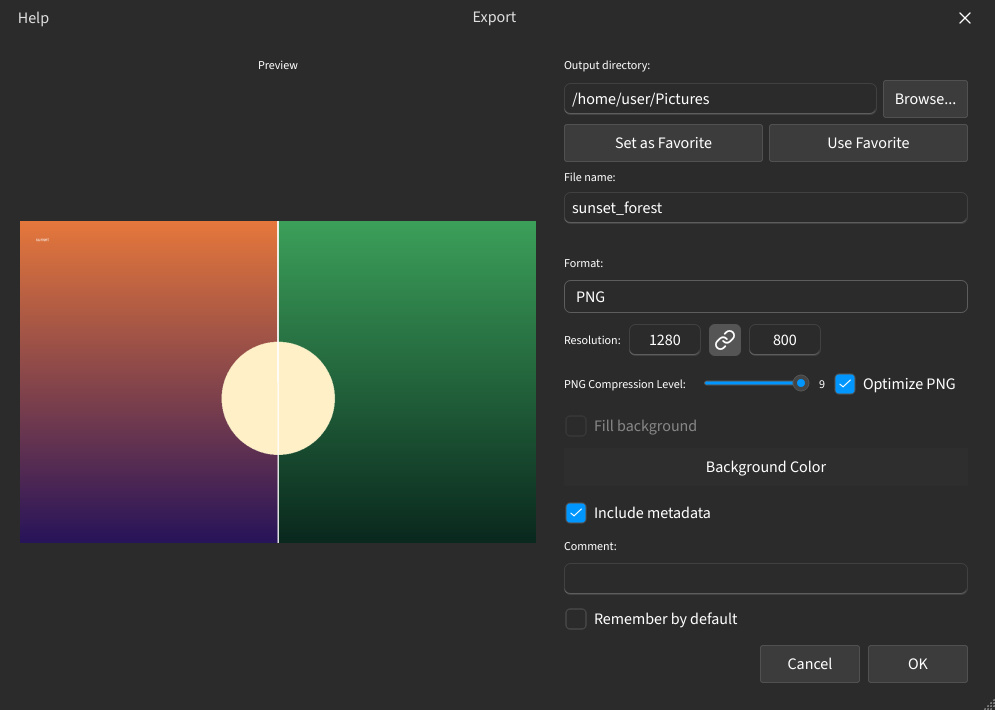
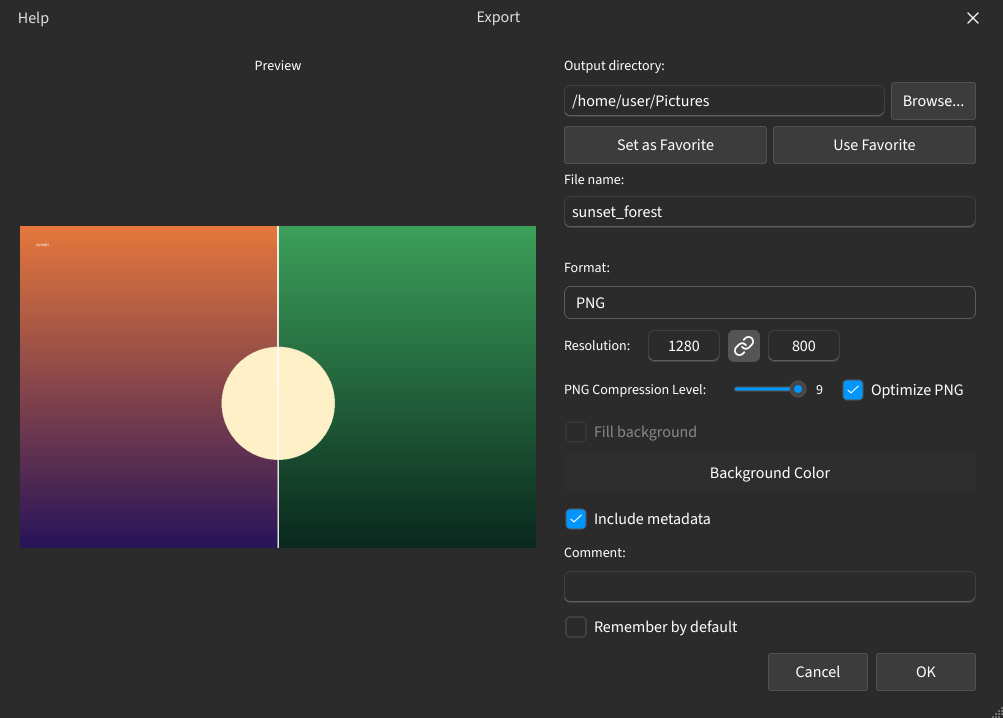
fix(ui): export dialog field labels use the app label scale (#612)
Multi Compare export: gap-aware canvas + label master switch; export-dialog label scale

#612: export-dialog field labels use the app-registered group-title scale (14 px) instead of toolkit body (12 px); live export_dialog.jpg figure regenerated for 8 locale/theme cells. Local: contracts+plugins 3059 passed, 66 skipped.
#613: native export canvas includes split gaps (2564x800 instead of 2560x800 -> no 1px white rim; verified live), and MultiCompareLabelSettings.visible with a Show text switch in the text flyout (live+export share one plan; Find Action row label.show_text). Local: tests/contracts tests/plugins tests/render src/tabs/multi_compare/tests -> 3741 passed, 70 skipped, 1 pre-existing failure (test_mc_chrome_survival, reproduced at base a1a2b3cc1).

diff --git a/src/plugins/export/dialog_sections.py b/src/plugins/export/dialog_sections.py
@@ -32,6 +32,13 @@ from ui.icon_manager import AppIcon
 from ui.widgets.form_controls import DialogActionBar, OutputPathSection
 from ui.widgets.slider_hint import ValueSlider
 
+#: Row-label typography for the export dialog. The app registers
+#: ``group-title`` as 14 design px / regular (ui/icon_manager.py) — the same
+#: scale the video editor's export labels use. The toolkit ``body`` default
+#: (12 px) painted these labels visibly smaller than the value text, checkbox
+#: captions and buttons in the same dialog.
+_LABEL_VARIANT = "group-title"
+
 
 class _ExportPreviewLabel(QLabel):
     """Preview surface whose sizeHint ignores the pixmap.
@@ -60,7 +67,9 @@ def build_preview_pane(dialog) -> QFrame:
     left_layout.setSpacing(scaled_px(8))
 
     dialog.export_preview_title = Text(
-        dialog._tr("export.preview", "Preview"), mode="plain"
+        dialog._tr("export.preview", "Preview"),
+        mode="plain",
+        variant=_LABEL_VARIANT,
     )
     dialog.export_preview_title.setAlignment(Qt.AlignmentFlag.AlignCenter)
     dialog.preview_label = _ExportPreviewLabel()
@@ -108,7 +117,9 @@ def build_output_path_section(dialog) -> None:
 
 def build_format_row(dialog) -> None:
     dialog.fmt_label = Text(
-        dialog._tr("label.format", "Format") + ":", mode="plain"
+        dialog._tr("label.format", "Format") + ":",
+        mode="plain",
+        variant=_LABEL_VARIANT,
     )
     dialog.combo_format = ComboBox()
     for fmt in ["PNG", "JPEG", "WEBP", "BMP", "TIFF", "JXL"]:
@@ -128,7 +139,9 @@ def build_resolution_row(dialog) -> None:
     res_layout.setContentsMargins(0, 0, 0, 0)
     res_layout.setSpacing(scaled_px(8))
     dialog.resolution_label = Text(
-        dialog._tr("label.resolution", "Resolution") + ":", mode="plain"
+        dialog._tr("label.resolution", "Resolution") + ":",
+        mode="plain",
+        variant=_LABEL_VARIANT,
     )
     res_layout.addWidget(dialog.resolution_label)
     dialog.edit_width = CustomLineEdit()
@@ -172,7 +185,9 @@ def build_quality_controls(dialog) -> None:
     quality_layout.setContentsMargins(0, 0, 0, 0)
     quality_layout.setSpacing(scaled_px(8))
     dialog.quality_label = Text(
-        dialog._tr("label.quality", "Quality") + ":", mode="plain"
+        dialog._tr("label.quality", "Quality") + ":",
+        mode="plain",
+        variant=_LABEL_VARIANT,
     )
     dialog.slider_quality = ValueSlider(
         Qt.Orientation.Horizontal,
@@ -182,7 +197,9 @@ def build_quality_controls(dialog) -> None:
     )
     dialog.slider_quality.setRange(1, 100)
     dialog.slider_quality.setValue(95)
-    dialog.label_quality_value = Text("95", mode="plain")
+    dialog.label_quality_value = Text(
+        "95", mode="plain", variant=_LABEL_VARIANT
+    )
     dialog.slider_quality.valueChanged.connect(
         lambda v: dialog.label_quality_value.setText(str(v))
     )
@@ -199,6 +216,7 @@ def build_png_options(dialog) -> None:
     dialog.label_png_compress = Text(
         dialog._tr("export.png_compression_level", "PNG Compression Level") + ":",
         mode="plain",
+        variant=_LABEL_VARIANT,
     )
     dialog.slider_png_compress = ValueSlider(
         Qt.Orientation.Horizontal,
@@ -206,7 +224,9 @@ def build_png_options(dialog) -> None:
     )
     dialog.slider_png_compress.setRange(0, 9)
     dialog.slider_png_compress.setValue(9)
-    dialog.label_png_compress_value = Text("9", mode="plain")
+    dialog.label_png_compress_value = Text(
+        "9", mode="plain", variant=_LABEL_VARIANT
+    )
     dialog.slider_png_compress.valueChanged.connect(
         lambda v: dialog.label_png_compress_value.setText(str(v))
     )
@@ -253,7 +273,9 @@ def build_metadata_block(dialog) -> None:
     ACTIONS.tag_member(dialog.checkbox_include_metadata, "export.include_metadata")
 
     dialog.comment_label = Text(
-        dialog._tr("export.comment", "Comment") + ":", mode="plain"
+        dialog._tr("export.comment", "Comment") + ":",
+        mode="plain",
+        variant=_LABEL_VARIANT,
     )
     dialog.edit_comment = CustomLineEdit()
     dialog.edit_comment.setObjectName("export-comment")

diff --git a/tests/plugins/test_text_migration_slice2.py b/tests/plugins/test_text_migration_slice2.py
@@ -13,9 +13,15 @@ old                                    new
                                        pixel_size=N, ...)``
 =====================================  =======================================
 
-Effective sizes are unchanged because ``Text`` shares ``Label``'s variant
-registry (``body`` = 12 px, ``dialog.text`` color): an explicit ``pixel_size``
-overrides the preset exactly as it did for ``Label``.
+Effective sizes were unchanged at migration time because ``Text`` shares
+``Label``'s variant registry (``body`` = 12 px, ``dialog.text`` color): an
+explicit ``pixel_size`` overrides the preset exactly as it did for ``Label``.
+
+Typing note (post-migration): the export row labels/readouts were later raised
+from ``body`` (12 px) to the app-registered ``group-title`` (14 px, regular —
+``ui/icon_manager.py``), because 12 px painted them visibly smaller than the
+value text, checkbox captions and buttons beside them. They are still plain
+``Text``; only the variant/size assertion below reflects that.
 
 Call sites (all explicit text displays, no factory funnel in these plugins):
 
@@ -180,17 +186,17 @@ def _export_dialog() -> ExportDialog:
     return ExportDialog(dialog_state=state, suggested_filename="out")
 
 
-def _assert_plain_text(widget, *, pixel_size: int) -> Text:
+def _assert_plain_text(widget, *, pixel_size: int, variant: str = "body") -> Text:
     assert isinstance(widget, Text), type(widget)
     assert not isinstance(widget, Label)
     assert widget.mode() == "plain"
-    assert widget.variant() == "body"
+    assert widget.variant() == variant
     assert widget.font().pixelSize() == scaled_px(pixel_size)
     return widget
 
 
 def test_export_dialog_labels_are_plain_text(qapp: QApplication):
-    """Export row labels / readouts: 12 px plain ``Text`` (was ``Label``)."""
+    """Export row labels / readouts: 14 px plain ``Text`` (app group-title)."""
     dialog = _export_dialog()
     try:
         for widget in (
@@ -203,7 +209,7 @@ def test_export_dialog_labels_are_plain_text(qapp: QApplication):
             dialog.label_png_compress_value,
             dialog.comment_label,
         ):
-            _assert_plain_text(widget, pixel_size=12)
+            _assert_plain_text(widget, pixel_size=14, variant="group-title")
 
         # Preserved non-typography state: centred preview caption, live
         # readouts still track their sliders through ``setText``.

diff --git a/src/ui/widgets/form_controls.py b/src/ui/widgets/form_controls.py
@@ -129,7 +129,13 @@ class OutputPathSection(QWidget):
         layout.setContentsMargins(0, 0, 0, 0)
         layout.setSpacing(scaled_px(6))
 
-        self.dir_label = Text(directory_label_text, self, mode="plain")
+        # Field labels use the app-registered ``group-title`` (14 design px,
+        # registered in ui/icon_manager.py), not the toolkit ``body`` default
+        # (12 px): body read visibly smaller than the value/checkbox text and
+        # the buttons in the same row (same scale as the video editor labels).
+        self.dir_label = Text(
+            directory_label_text, self, mode="plain", variant="group-title"
+        )
         self.dir_picker_row = QWidget(self)
         self.dir_picker_row.setSizePolicy(
             QSizePolicy.Policy.Preferred, QSizePolicy.Policy.Fixed
@@ -180,7 +186,9 @@ class OutputPathSection(QWidget):
         dir_layout.addWidget(self.edit_dir, 1)
         dir_layout.addWidget(self.btn_browse_dir)
 
-        self.filename_label = Text(filename_label_text, self, mode="plain")
+        self.filename_label = Text(
+            filename_label_text, self, mode="plain", variant="group-title"
+        )
         self.filename_edit = filename_editor_factory()
         self.filename_edit.setObjectName("output-filename")
 

diff --git a/tests/plugins/test_export_dialog_labels_scale.py b/tests/plugins/test_export_dialog_labels_scale.py
@@ -64,7 +64,7 @@ def test_export_dialog_labels_scale_live(qapp: QApplication):
     # Re-apply lands on the coalesced metrics channel's next tick, not inside
     # set_factor — drain before asserting.
     drain_until_stable(qapp, lambda: _label_size(dialog.fmt_label))
-    assert _label_size(dialog.fmt_label) == scaled_px(12) == 18
+    assert _label_size(dialog.fmt_label) == scaled_px(14) == 21
 
     UiScale.get_instance().set_factor(1.0)
     drain_until_stable(qapp, lambda: _label_size(dialog.fmt_label))
@@ -96,8 +96,8 @@ def test_output_path_section_labels_scale_live(qapp: QApplication):
         qapp,
         lambda: (_label_size(section.dir_label), _label_size(section.filename_label)),
     )
-    assert _label_size(section.dir_label) == scaled_px(12)
-    assert _label_size(section.filename_label) == scaled_px(12)
+    assert _label_size(section.dir_label) == scaled_px(14)
+    assert _label_size(section.filename_label) == scaled_px(14)
 
     host.close()
 

diff --git a/docs/dev/DIALOGS.md b/docs/dev/DIALOGS.md
@@ -152,6 +152,21 @@ Text buttons:
 
 ---
 
+## Dialog field-label typography
+
+Field labels inside dialogs use the **app-registered `group-title` variant**
+(`ui/icon_manager.py`: 14 design px, regular), not the toolkit `body` default
+(12 px). Measured on the export dialog (2026-10-23): 12 px labels read visibly
+smaller than the input text, checkbox captions and buttons in the same dialog.
+The video editor's labels already used `group-title`; the shared builders
+(`src/ui/widgets/form_controls.py::OutputPathSection` and
+`src/plugins/export/dialog_sections.py`) now match it, so the image-export
+dialog and the video editor's Output tab stay in step. `group-title` also
+carries `elide=True`, which keeps a long translated label from forcing the
+dialog wider than its minimum.
+
+---
+
 ## Preview panes and pixmap sizeHints
 
 `QLabel.setPixmap` makes `sizeHint()` follow the pixmap. After CSD
